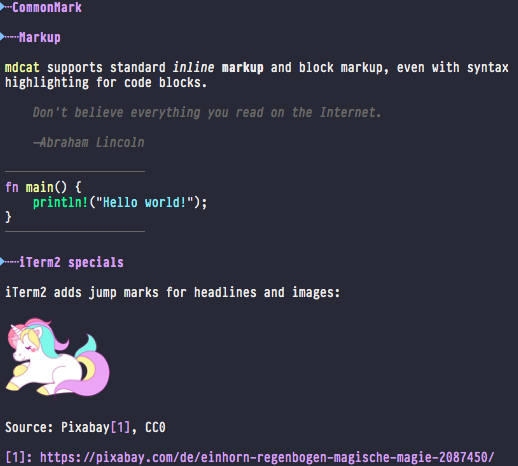
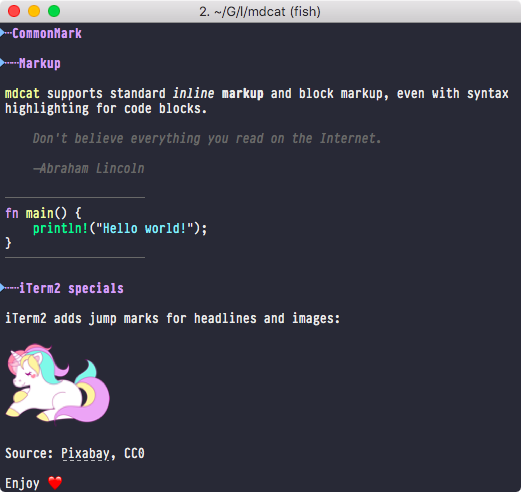
Update showcase screenshot
Closes GH-13

diff --git a/README.md b/README.md
@@ -13,8 +13,7 @@ $ mdcat sample.md
 
 ![mdcat showcase with different colour themes](screenshots/side-by-side.png)
 
-[Solarized][] Light, Dark, and [Dracula][] (from left to right), with
-[PragmataPro][pp] in [iTerm2][].
+[Dracula][] and [Solarized][] Light, with [PragmataPro][pp] in [iTerm2][].
 
 [crates-badge]: https://img.shields.io/crates/v/mdcat.svg
 [crates]: https://crates.io/crates/mdcat
